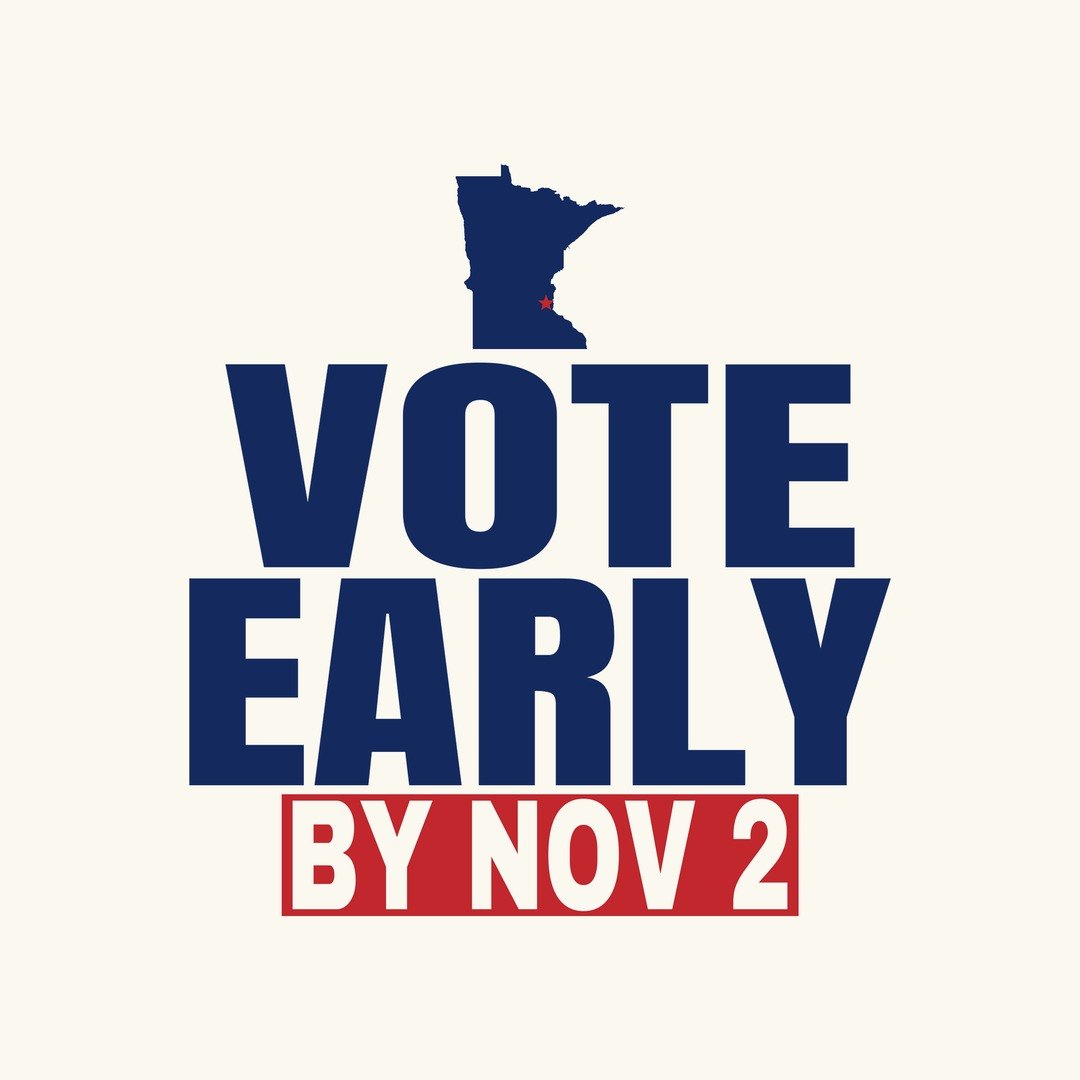
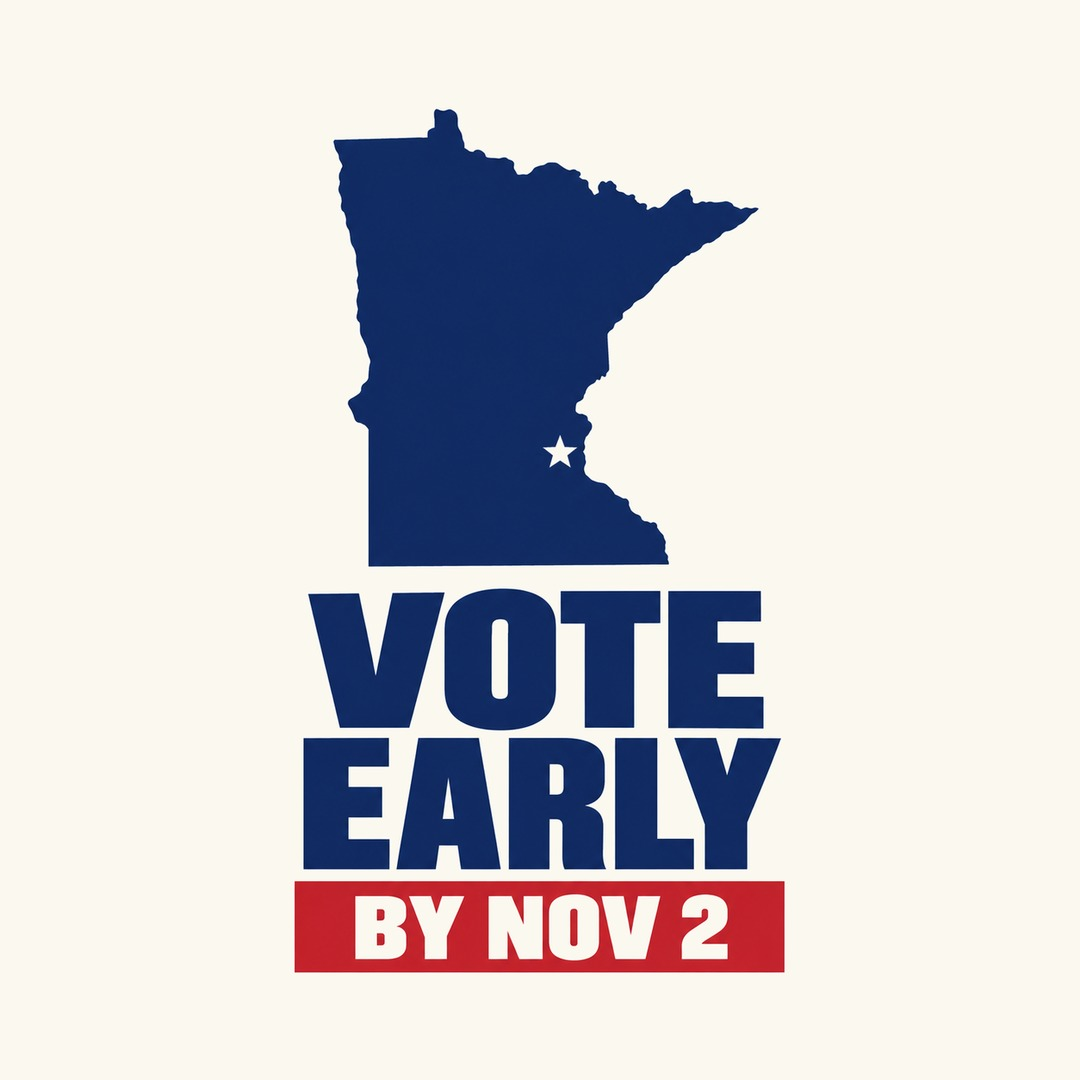
Minnesota: nine new ready-mades from Codex (stair-step design left out); retire the earlier set
Claude-Session: https://claude.ai/code/session_01U4jJBSt3CnGjJYrtPzNn5q

Changed region(s): [[0.1528, 0.0917, 0.825, 0.9167], [0.4278, 0.3667, 0.4583, 0.4889]]

diff --git a/site/index.php b/site/index.php
@@ -83,7 +83,7 @@ function vote_files( $abbr ) {
 
 // The state hero shows one standout ready-made, tilted (October 20, Garrett): the design named here,
 // or the first in the set. Numbers match <abbr>-vote-N.jpg.
-const VOTE_HERO = array( 'MS' => 5, 'MI' => 7, 'ID' => 7, 'NJ' => 5, 'OR' => 5 );
+const VOTE_HERO = array( 'MS' => 5, 'MI' => 7, 'ID' => 7, 'NJ' => 5, 'OR' => 5, 'MN' => 6 );
 function vote_hero_file( $abbr ) {
 	$n = VOTE_HERO[ $abbr ] ?? 0;
 	$k = strtolower( $abbr );

diff --git a/docs/codex-ready-made-brief.md b/docs/codex-ready-made-brief.md
@@ -79,6 +79,7 @@ favorite. Each one still has to pass the rules.
 - **I stays on the same line as VOTED,** never alone on its own line (it reads as a numeral 1 or a
   pillar). **Type families:** the heavy condensed sans, or brush lettering. No slab or wood-type
   serifs; they look out of family next to the rest of the set (Nebraska).
+- **A contrasting I is fine at headline height** (Oregon's gold slab I on the VOTED line reads as "I VOTED").
 - **No oversized initial letter.** A giant serif I beside the map reads as a column at 48 px
   (Mississippi 07, Idaho I VOTED).
 - **Proven concepts can repeat across states; each set still needs its own ideas.** Strong concepts
